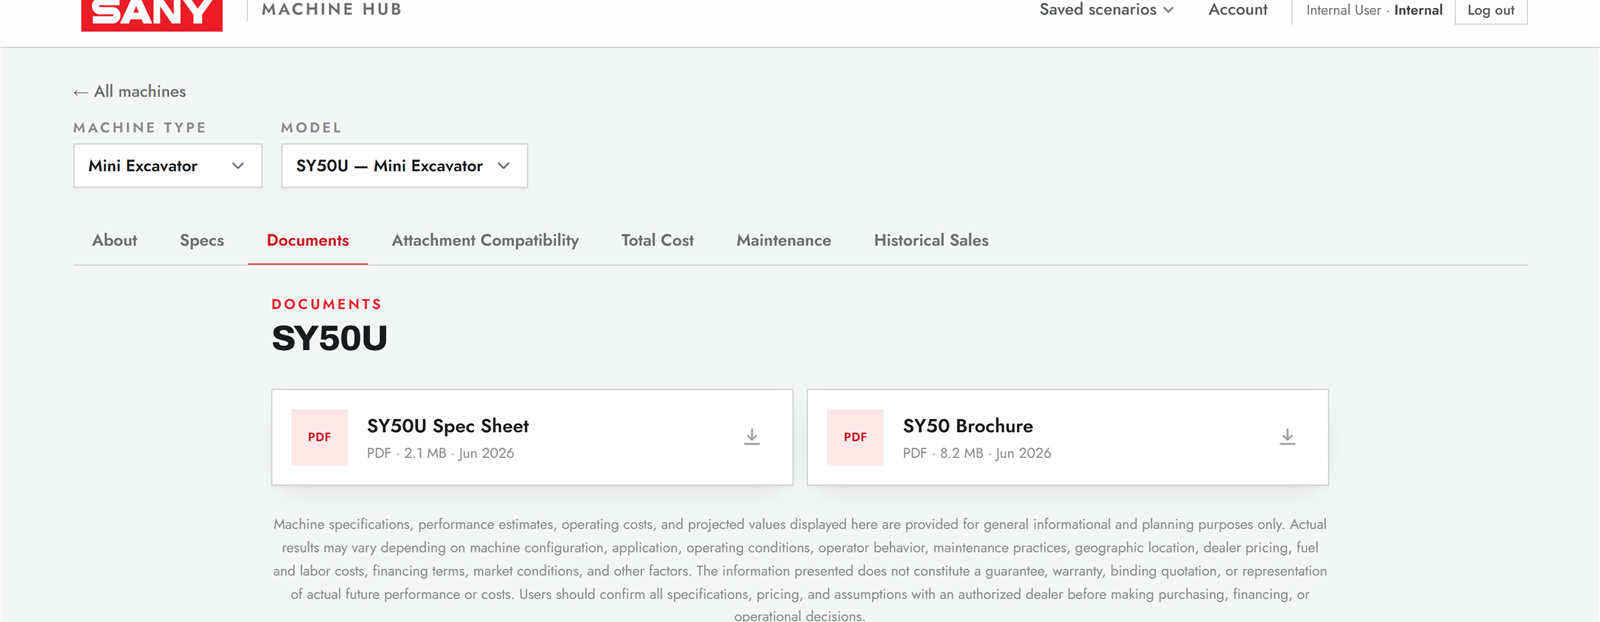
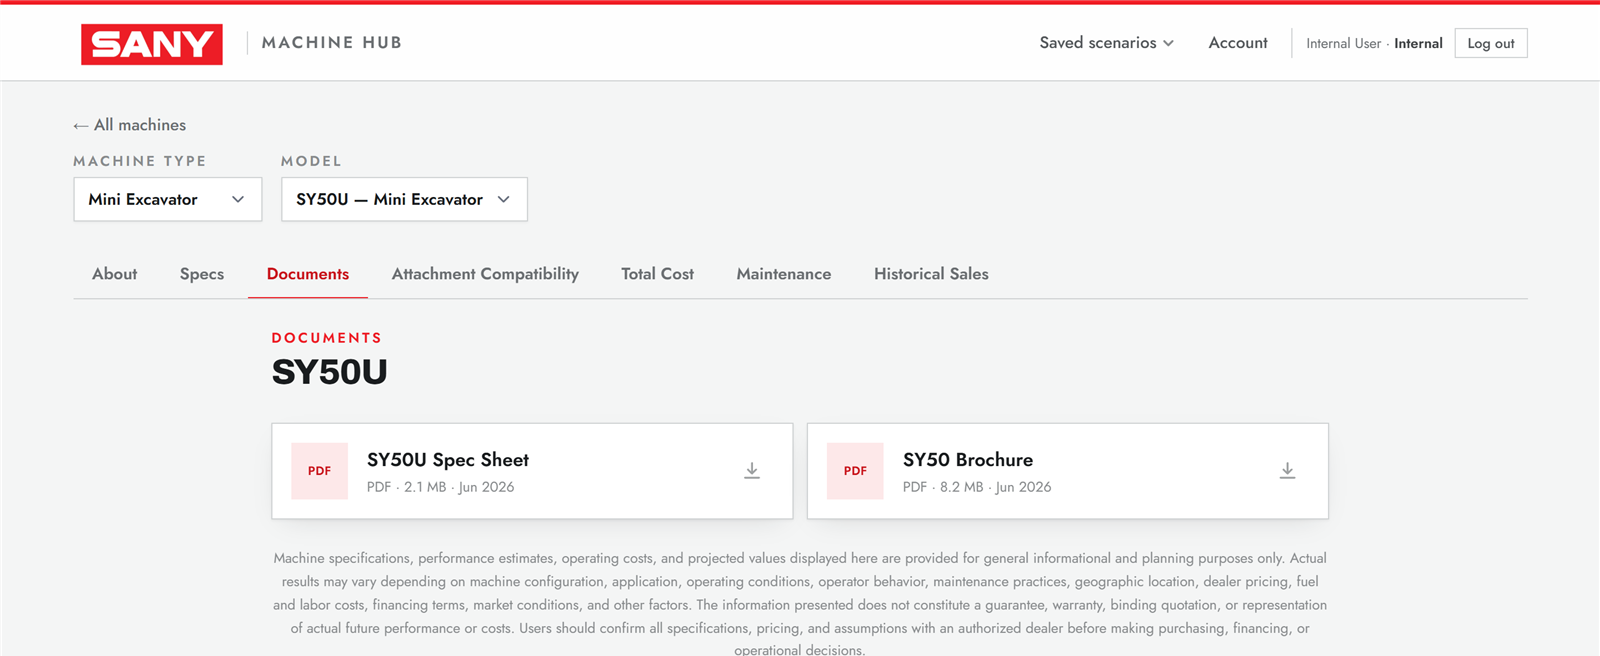
MachineHub: unredact residual value, first-photo hero, layout and methodology edits
Residual value shows in full (derivable from the shown value-retained %
and purchase price anyway). Home hero captured on the first slideshow
photo. Documents crop keeps the full header logo. Company referred to
as SANY America. Engineering Notes cite Vorster (depreciation), USACE
EP 1110-1-8 + Vorster (repair buffer), and the six-calibration-curve
method that reproduces EquipmentWatch's black-box residual model.
Low-density screenshots paired side by side to shorten the page.

diff --git a/_projects/MachineHub/index.md b/_projects/MachineHub/index.md
@@ -1,7 +1,7 @@
 ---
 layout: post
 title: SANY Machine Hub
-description: Full-stack web platform built end-to-end during my work term at SANY America — replacing the company's Excel-based Total Cost of Ownership workflow with a production web app. Customer-facing machine hub with a TCO calculator, market comparisons, maintenance planning, and branded PDF reports, backed by an internal admin system for data entry, roles, and auditing. Next.js + TypeScript + PostgreSQL, deployed on Vercel and in production use.
+description: Full-stack web platform built end-to-end during my work term at SANY America — replacing SANY America's Excel-based Total Cost of Ownership workflow with a production web app. Customer-facing machine hub with a TCO calculator, market comparisons, maintenance planning, and branded PDF reports, backed by an internal admin system for data entry, roles, and auditing. Next.js + TypeScript + PostgreSQL, deployed on Vercel and in production use.
 skills:
   - TypeScript
   - React / Next.js
@@ -25,8 +25,7 @@ The core of the platform: users build an ownership scenario (years, hours, price
 ## Market Comparisons
 Each machine is positioned against its competitive class on operating cost per hour and value retained, built from published industry data and resale history. A tap-to-estimate interaction converts the relative difference into an estimated savings figure for the user's specific scenario. Every chart's numeric detail (dollar values, percentages, or bare shape) is controlled per user role by an admin-configurable permission matrix.
 {% include image-gallery.html images="hub-tco-compare.png" height="800" %}
-{% include image-gallery.html images="hub-tco-resale.png" height="435" %}
-{% include image-gallery.html images="hub-tco-breakdown.png" height="575" %}
+{% include image-gallery.html images="hub-tco-resale.png, hub-tco-breakdown.png" height="255" %}
 
 ---
 ## Maintenance Planning
@@ -41,10 +40,9 @@ An interactive working-range grid derived from each machine's load chart: pick a
 ---
 ## Machine Pages
 Every model gets a full profile — narrative overview, spec sheet (CSV-exportable), and downloadable documents (spec sheets, brochures, videos) stored in Supabase Storage with per-role visibility.
-{% include image-gallery.html images="hub-about.jpg" height="520" %}
+{% include image-gallery.html images="hub-about.jpg, hub-documents.png" height="255" %}
 {% include image-gallery.html images="hub-about-cards.png" height="265" %}
 {% include image-gallery.html images="hub-specs.png" height="800" %}
-{% include image-gallery.html images="hub-documents.png" height="445" %}
 
 ---
 ## SANY Bob — AI Assistant
@@ -65,11 +63,8 @@ The rest is sensitive enough to describe rather than show:
 - **PDF reports** — any scenario prints to a SANY-branded customer report with figures, charts, and a methodology appendix
 
 ### The Assistant Console
-SANY Bob gets his own admin area. Setup connects the API key (encrypted at rest, never shown again in full) and picks the Claude model, with plain-language cost/quality tradeoffs for non-technical admins.
-{% include image-gallery.html images="hub-bob-setup.png" height="865" %}
-
-The avatar gallery rotates Bob's look through the seasons — uploads are resized automatically.
-{% include image-gallery.html images="hub-bob-avatar.png" height="835" %}
+SANY Bob gets his own admin area. Setup connects the API key (encrypted at rest, never shown again in full) and picks the Claude model, with plain-language cost/quality tradeoffs for non-technical admins. The avatar gallery rotates Bob's look through the seasons — uploads are resized automatically.
+{% include image-gallery.html images="hub-bob-setup.png, hub-bob-avatar.png" height="435" %}
 
 Personality and Priorities let the owner shape how Bob *sounds* and what he *emphasizes* per task type (selling points, machine selection, head-to-head comparisons) via drag-and-drop tiers — while the UI is explicit that these steer tone and emphasis only, and can never change what data a role is allowed to see or override his safety rules.
 {% include image-gallery.html images="hub-bob-personality.png" height="700" %}
@@ -79,6 +74,9 @@ Personality and Priorities let the owner shape how Bob *sounds* and what he *emp
 ## Engineering Notes
 - **Stack:** Next.js 14 (App Router) + TypeScript, Prisma over PostgreSQL (Supabase), Tailwind CSS, Recharts, NextAuth; deployed on Vercel with push-to-deploy
 - The calculation engine is a **pure, dependency-free module** — no UI or database imports — covered by a Vitest regression suite, so finance/depreciation math can be verified independently of the app
+- **Depreciation methodology** — retained-value curves grounded in Mike Vorster's *Construction Equipment Economics*, fit to historical auction results
+- **Repair-buffer methodology** — the opt-in unplanned-maintenance estimate takes its magnitude from **USACE EP 1110-1-8** (*Construction Equipment Ownership and Operating Expense Schedule*, 2018) equipment-class factors and its age shape from **Vorster §6-2** — built entirely from published, citable sources so a third party can audit every constant
+- **EquipmentWatch calibration** — EquipmentWatch's residual-value model is a black box, so I developed a six-calibration-curve method (per-curve nonlinear least-squares fits, originally driven by Excel Solver, later ported to a server-side fitter) that reproduces its outputs and lets the app price residuals without the workbook
 - Scenario state is **URL-addressable** (machine, tab, saved scenario), so bookmarks and refreshes restore the exact view
 - Server-rendered pages with role-resolved data: the server decides per role what data ships to the browser
 - Wrote the full documentation set for handoff: developer/admin manual, three role-specific user guides, and methodology specs
